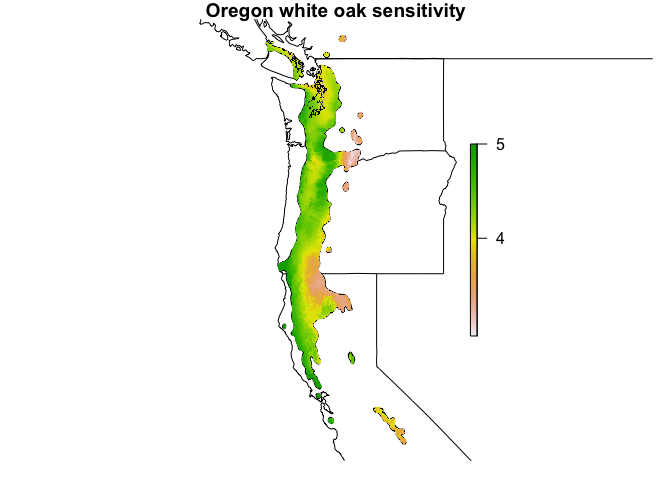
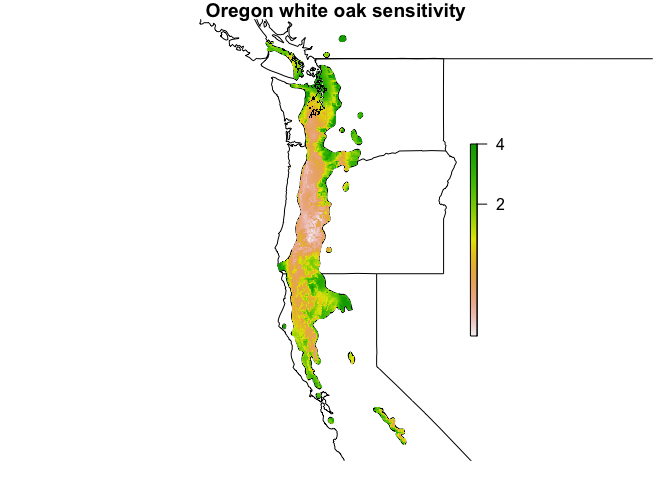
README update

diff --git a/README.md b/README.md
@@ -1,19 +1,30 @@
 
-[![Build Status](https://travis-ci.org/rinnan/CENFA.svg?branch=master)](https://travis-ci.org/rinnan/CENFA) [![CRAN](http://www.r-pkg.org/badges/version/CENFA)]()
+[![Build
+Status](https://travis-ci.org/rinnan/CENFA.svg?branch=master)](https://travis-ci.org/rinnan/CENFA)
+[![CRAN](http://www.r-pkg.org/badges/version/CENFA)]()
 
-CENFA: Climate and Ecological Niche Factor Analysis
-===================================================
+# CENFA: Climate and Ecological Niche Factor Analysis
 
-`CENFA` provides tools for performing ecological-niche factor analysis (ENFA) and climate-niche factor analysis (CNFA). This package was created with three goals in mind:
+`CENFA` provides tools for performing ecological-niche factor analysis
+(ENFA) and climate-niche factor analysis (CNFA). This package was
+created with three goals in mind:
 
--   To update the ENFA method for use with large datasets and modern data formats.
--   To correct a critical error in the ENFA method itself, that has managed to persist since Hirzel et al. first introduced ENFA in 2002.
--   To expand the application of ENFA in the context of climate change in order to quantify different aspects of species vulnerability to climate change, and to facilitate quantitative comparisons of vulnerability between species.
+  - To update the ENFA method for use with large datasets and modern
+    data formats.
+  - To correct a critical error in the ENFA method itself, that has
+    managed to persist since Hirzel et al. first introduced ENFA in
+    2002.
+  - To expand the application of ENFA in the context of climate change
+    in order to quantify different aspects of species vulnerability to
+    climate change, and to facilitate quantitative comparisons of
+    vulnerability between species.
 
-`CENFA` takes advantage of the `raster` and `sp` packages, allowing the user to conduct analyses directly with raster, shapefile, and point data, and to handle large datasets efficiently via partial data loading and parallelization.
+`CENFA` takes advantage of the `raster` and `sp` packages, allowing the
+user to conduct analyses directly with raster, shapefile, and point
+data, and to handle large datasets efficiently via partial data loading
+and parallelization.
 
-Installation
-------------
+## Installation
 
 You can install CENFA from GitHub with:
 
@@ -22,26 +33,32 @@ You can install CENFA from GitHub with:
 devtools::install_github("rinnan/CENFA")
 ```
 
-Examples
---------
+## Examples
 
 ### `enfa`
 
-We will use some example datasets to perform a basic ENFA. The historical climate dataset `climdat.hist` is a RasterBrick of 10 climate variables, covering much of the western US coast. `QUGA` is a SpatialPolygonsDataFrame of the historical range map of Oregon white oak (*Quercus garryana*).
+We will use some example datasets to perform a basic ENFA. The
+historical climate dataset `climdat.hist` is a RasterBrick of 10 climate
+variables, covering much of the western US coast. `QUGA` is a
+SpatialPolygonsDataFrame of the historical range map of Oregon white oak
+(*Quercus garryana*).
 
 A plot of the data, using the one of the layers of `climdat.hist`:
 
-![](man/figures/README-QUGA-plot-1.png)
+![](man/figures/README-QUGA-plot-1.png)<!-- -->
 
-The `enfa` function takes three basic arguments: the dataset of ecological variables (`climdat.hist`), the map of species presence (`QUGA`), and the values of `QUGA` that specify presence (in this case, a column named "CODE"). Calling the `enfa` object by name provides a standard summary of the ENFA results.
+The `enfa` function takes three basic arguments: the dataset of
+ecological variables (`climdat.hist`), the map of species presence
+(`QUGA`), and the values of `QUGA` that specify presence (in this case,
+a column named “CODE”). Calling the `enfa` object by name provides a
+standard summary of the ENFA results.
 
 ``` r
 mod.enfa <- enfa(x = climdat.hist, s.dat = QUGA, field = "CODE")
 mod.enfa
 #> ENFA
 #> 
-#> Original function call: enfa(x = x, s.dat = s.dat.ras, filename = filename, quiet = quiet, 
-#>     parallel = parallel, n = n, ...)
+#> Original function call: enfa(x = climdat.hist, s.dat = QUGA, field = "CODE")
 #> 
 #> Marginality factor: 
 #>   MDR   ISO    TS HMmax CMmin   PWM   PDM    PS   PWQ   PDQ 
@@ -57,34 +74,44 @@ mod.enfa
 #> 
 #> Overall marginality:  1.654 
 #> 
-#> Overall specialization:  0.543 
+#> Overall specialization:  1.718 
 #> 
 #> Significant ENFA factors: 
 #>        Marg Spec1 Spec2 Spec3
-#> PWQ    0.44  0.03 -0.19 -0.25
-#> PWM    0.43 -0.08  0.26  0.27
-#> PS     0.42  0.12 -0.11 -0.02
-#> TS    -0.41 -0.34 -0.54  0.39
-#> CMmin  0.40 -0.54  0.00  0.49
-#> ISO    0.31  0.11 -0.46 -0.05
-#> MDR   -0.08 -0.46  0.59  0.38
-#> PDM   -0.08  0.10  0.09  0.03
-#> PDQ    0.08  0.00 -0.11 -0.04
-#> HMmax -0.02  0.58 -0.07 -0.57
+#> PWQ    0.72  0.03 -0.19 -0.25
+#> PWM    0.71 -0.08  0.26  0.27
+#> PS     0.70  0.12 -0.11 -0.02
+#> TS    -0.67 -0.34 -0.54  0.39
+#> CMmin  0.67 -0.54  0.00  0.49
+#> ISO    0.51  0.11 -0.46 -0.05
+#> MDR   -0.13 -0.46  0.59  0.38
+#> PDM   -0.13  0.10  0.09  0.03
+#> PDQ    0.13  0.00 -0.11 -0.04
+#> HMmax -0.03  0.58 -0.07 -0.57
 ```
 
 ### `scatter`
 
-We can visualize the ENFA results via the `scatter` function, which produces a biplot of the marginality axis and one of the specialization axes. This gives us a portrait of the species' niche to compare with the global niche of the reference study area, with the ecological axes projected onto the ENFA dimensions. (Note: since `mod.enfa` only contains information about the species habitat, we must first construct a `GLcenfa` object that also describes the global habitat.)
+We can visualize the ENFA results via the `scatter` function, which
+produces a biplot of the marginality axis and one of the specialization
+axes. This gives us a portrait of the species’ niche to compare with the
+global niche of the reference study area, with the ecological axes
+projected onto the ENFA dimensions. (Note: since `mod.enfa` only
+contains information about the species habitat, we must first construct
+a `GLcenfa` object that also describes the global habitat.)
 
 ``` r
 glc <- GLcenfa(x = climdat.hist)
 scatter(x = mod.enfa, y = glc)
 ```
 
-![](man/figures/README-scatter-1.png)
+![](man/figures/README-scatter-1.png)<!-- -->
 
-For larger datasets, we can speed up the computation via parallelization. We provide two additional arguments, `parallel = TRUE`, and `n`, which specifies the number of cores to use. `n` has a default value of 1, so only setting `parallel = TRUE` will not parallelize the function by itself.
+For larger datasets, we can speed up the computation via
+parallelization. We provide two additional arguments, `parallel = TRUE`,
+and `n`, which specifies the number of cores to use. `n` has a default
+value of 1, so only setting `parallel = TRUE` will not parallelize the
+function by itself.
 
 ``` r
 # does not enable parallelization
@@ -94,19 +121,29 @@ mod <- enfa(x = climdat.hist, s.dat = QUGA, field = "CODE", parallel = TRUE)
 mod <- enfa(x = climdat.hist, s.dat = QUGA, field = "CODE", parallel = TRUE, n = 4)
 ```
 
-The function will attempt to match the value provided to `n` with the number of cores detected on the local device via `parallel::detectCores()`; if the provided `n` is greater than the number of available cores `k`, a warning will be issued and `n` will be set to `k - 1`.
+The function will attempt to match the value provided to `n` with the
+number of cores detected on the local device via
+`parallel::detectCores()`; if the provided `n` is greater than the
+number of available cores `k`, a warning will be issued and `n` will be
+set to `k - 1`.
 
 ### `cnfa`
 
-The `cnfa` function is very similar to `enfa`, but performs a slightly different analysis. Whereas ENFA returns a *specialization factor* (the eigenvalues of specialization) describing the amount of specialization found in each *ENFA factor*, CNFA returns a *sensitivity factor* that reflects the amount of sensitivity found in each *ecological variable*. This makes the sensitivity factor more directly comparable to the marginality factor, and more interpretable in the context of species' sensitivity to a given variable.
+The `cnfa` function is very similar to `enfa`, but performs a slightly
+different analysis. Whereas ENFA returns a *specialization factor* (the
+eigenvalues of specialization) describing the amount of specialization
+found in each *ENFA factor*, CNFA returns a *sensitivity factor* that
+reflects the amount of sensitivity found in each *ecological variable*.
+This makes the sensitivity factor more directly comparable to the
+marginality factor, and more interpretable in the context of species’
+sensitivity to a given variable.
 
 ``` r
 mod.cnfa <- cnfa(x = climdat.hist, s.dat = QUGA, field = "CODE")
 mod.cnfa
 #> CNFA
 #> 
-#> Original function call: cnfa(x = x, s.dat = s.dat.ras, filename = filename, quiet = quiet, 
-#>     parallel = parallel, n = n, ...)
+#> Original function call: cnfa(x = climdat.hist, s.dat = QUGA, field = "CODE")
 #> 
 #> Marginality factor: 
 #>   MDR   ISO    TS HMmax CMmin   PWM   PDM    PS   PWQ   PDQ 
@@ -114,7 +151,7 @@ mod.cnfa
 #> 
 #> Sensitivity factor: 
 #>   MDR   ISO    TS HMmax CMmin   PWM   PDM    PS   PWQ   PDQ 
-#>  3.33  2.68  3.20  3.00  3.13  2.85  1.83  2.08  2.67  1.50 
+#>  4.52  2.86  4.16  3.72  3.98  3.36  1.35  1.71  2.94  0.92 
 #> 
 #> Percentage of specialization contained in CNFA factors: 
 #>  Marg Spec1 Spec2 Spec3 Spec4 Spec5 Spec6 Spec7 Spec8 Spec9 
@@ -122,33 +159,39 @@ mod.cnfa
 #> 
 #> Overall marginality:  1.654 
 #> 
-#> Overall sensitivity:  2.691 
+#> Overall sensitivity:  1.718 
 #> 
 #> Significant CNFA factors: 
 #>        Marg Spec1 Spec2 Spec3
-#> PWQ    0.44  0.03 -0.19 -0.25
-#> PWM    0.43 -0.08  0.26  0.27
-#> PS     0.42  0.12 -0.11 -0.02
-#> TS    -0.41 -0.34 -0.54  0.39
-#> CMmin  0.40 -0.54  0.00  0.49
-#> ISO    0.31  0.11 -0.46 -0.05
-#> MDR   -0.08 -0.46  0.59  0.38
-#> PDM   -0.08  0.10  0.09  0.03
-#> PDQ    0.08  0.00 -0.11 -0.04
-#> HMmax -0.02  0.58 -0.07 -0.57
+#> PWQ    0.72  0.03 -0.19 -0.25
+#> PWM    0.71 -0.08  0.26  0.27
+#> PS     0.70  0.12 -0.11 -0.02
+#> TS    -0.67 -0.34 -0.54  0.39
+#> CMmin  0.67 -0.54  0.00  0.49
+#> ISO    0.51  0.11 -0.46 -0.05
+#> MDR   -0.13 -0.46  0.59  0.38
+#> PDM   -0.13  0.10  0.09  0.03
+#> PDQ    0.13  0.00 -0.11 -0.04
+#> HMmax -0.03  0.58 -0.07 -0.57
 ```
 
-Using the `sensitivity_map` function, we can create a habitat map that identifies where we expect the species to be most sensitivite to changes in climate.
+Using the `sensitivity_map` function, we can create a habitat map that
+identifies where we expect the species to be most sensitivite to changes
+in climate.
 
 ``` r
 s.map <- sensitivity_map(mod.cnfa)
 ```
 
-![](man/figures/README-sensitivity-map-1.png)
+![](man/figures/README-sensitivity-map-1.png)<!-- -->
 
 ### `departure`
 
-The `departure` function provides a measure of a species' potential exposure to climate change. It takes a future climate dataset as an additional argument, and calculates the absolute differences between historical and future values.
+The `departure` function provides a measure of a species’ potential
+exposure to climate change. It takes a future climate dataset as an
+additional argument, and calculates the absolute differences between
+historical and future
+values.
 
 ``` r
 dep <- departure(x = climdat.hist, y = climdat.fut, s.dat = QUGA, field = "CODE")
@@ -162,17 +205,23 @@ dep
 #> Overall departure: 0.909
 ```
 
-The departure factor tells us the average amount of change that is expected in each climate variable across the species' range. Using the `exposure_map` function, we can create a habitat map that identifies where we expect the species to be most exposed to climate change.
+The departure factor tells us the average amount of change that is
+expected in each climate variable across the species’ range. Using the
+`exposure_map` function, we can create a habitat map that identifies
+where we expect the species to be most exposed to climate change.
 
 ``` r
 e.map <- exposure_map(dep)
 ```
 
-![](man/figures/README-exposure-map-1.png)
+![](man/figures/README-exposure-map-1.png)<!-- -->
 
 ### `vulnerability`
 
-The `vulnerability` function provides a measure of a species' potential vulnerability to climate change, taking both sensitivity and exposure into account. It takes a `cnfa` object and a `departure` object as its arguments.
+The `vulnerability` function provides a measure of a species’ potential
+vulnerability to climate change, taking both sensitivity and exposure
+into account. It takes a `cnfa` object and a `departure` object as its
+arguments.
 
 ``` r
 vuln <- vulnerability(cnfa = mod.cnfa, dep = dep)
@@ -181,27 +230,36 @@ vuln
 #> 
 #> Vulnerability factor: 
 #>   MDR   ISO    TS HMmax CMmin   PWM   PDM    PS   PWQ   PDQ 
-#>  0.14  0.16  0.27  0.40  0.38  0.25  0.12  0.24  0.24  0.11 
+#>  2.18  1.78  2.25  2.38  2.40  2.03  1.23  1.54  1.90  1.03 
 #> 
-#> Overall vulnerability: 0.792
+#> Overall vulnerability: 1.368
 ```
 
-Using the `vulnerability_map` function, we can create a habitat map that identifies where we expect the species to be most vulnerable to climate change.
+Using the `vulnerability_map` function, we can create a habitat map that
+identifies where we expect the species to be most vulnerable to climate
+change.
 
 ``` r
 v.map <- vulnerability_map(vuln)
 ```
 
-![](man/figures/README-vulnerability-map-1.png)
+![](man/figures/README-vulnerability-map-1.png)<!-- -->
 
-Useful raster functions
------------------------
+## Useful raster functions
 
-The `raster` package contains the `clusterR` function, which enables parallelization methods for certain raster operations. `clusterR` only works on functions that operate on a cell-by-cell basis, however, which limits its usefulness. The `CENFA` package contains a few functions that speed up some basic `raster` functions considerably by parallelizing on a layer-by-layer basis rather than a cell-by-cell basis.
+The `raster` package contains the `clusterR` function, which enables
+parallelization methods for certain raster operations. `clusterR` only
+works on functions that operate on a cell-by-cell basis, however, which
+limits its usefulness. The `CENFA` package contains a few functions that
+speed up some basic `raster` functions considerably by parallelizing on
+a layer-by-layer basis rather than a cell-by-cell basis.
 
 ### `parScale`
 
-The `parScale` function is identical to `raster::scale`, but has a parallelization option that will scale each raster layer in parallel. The `center` and `scale` arguments can be logical (`TRUE` or `FALSE`) or numeric vectors.
+The `parScale` function is identical to `raster::scale`, but has a
+parallelization option that will scale each raster layer in parallel.
+The `center` and `scale` arguments can be logical (`TRUE` or `FALSE`) or
+numeric vectors.
 
 ``` r
 clim.scaled <- parScale(x = climdat.hist, parallel = TRUE, n = 4)
@@ -209,13 +267,19 @@ clim.scaled <- parScale(x = climdat.hist, parallel = TRUE, n = 4)
 
 ### `parCov`
 
-The `parCov` function returns the covariance matrix of a Raster\* object `x`, computing the covariance between each layer of `x`. This is similar to `raster::layerStats(x, stat = 'cov')`, but much faster when parallelization is employed.
+The `parCov` function returns the covariance matrix of a Raster\* object
+`x`, computing the covariance between each layer of `x`. This is similar
+to `raster::layerStats(x, stat = 'cov')`, but much faster when
+parallelization is employed.
 
 ``` r
 mat <- parCov(x = climdat.hist, parallel = TRUE, n = 4)
 ```
 
-Additionally, `parCov` can accept two Raster\* objects as arguments, similar to `stats::cov(x, y)`. If two Raster\* objects are supplied, then the covariance is calculated between the layers of `x` and the layers of `y`.
+Additionally, `parCov` can accept two Raster\* objects as arguments,
+similar to `stats::cov(x, y)`. If two Raster\* objects are supplied,
+then the covariance is calculated between the layers of `x` and the
+layers of `y`.
 
 ``` r
 mat <- parCov(x = climdat.hist, y = climdat.fut, parallel = TRUE, n = 4)
@@ -223,7 +287,9 @@ mat <- parCov(x = climdat.hist, y = climdat.fut, parallel = TRUE, n = 4)
 
 ### `stretchPlot`
 
-The `stretchPlot` function provides a simple way to adjust the contrast of plots of RasterLayers to emphasize difference in values. It can perform histogram equalization and standard deviation stretching.
+The `stretchPlot` function provides a simple way to adjust the contrast
+of plots of RasterLayers to emphasize difference in values. It can
+perform histogram equalization and standard deviation stretching.
 
 ``` r
 sm <- sensitivity_map(mod.cnfa)
@@ -233,16 +299,19 @@ stretchPlot(sm, type = "hist.equal", main = "Histogram equalization")
 stretchPlot(sm, type = "sd", n = 2, main = "Standard deviation (n = 2)")
 ```
 
-![](man/figures/README-stretchPlot-1.png)
+![](man/figures/README-stretchPlot-1.png)<!-- -->
 
-Guidelines for contributing
----------------------------
+## Guidelines for contributing
 
-I welcome contributions and suggestions for improving this package. Please do not hesitate to submit any issues you may encounter.
+I welcome contributions and suggestions for improving this package.
+Please do not hesitate to submit any issues you may encounter.
 
-References
-----------
+## References
 
-Basille, Mathieu, et al. Assessing habitat selection using multivariate statistics: Some refinements of the ecological-niche factor analysis. Ecological Modelling 211.1 (2008): 233-240.
+Basille, Mathieu, et al. Assessing habitat selection using multivariate
+statistics: Some refinements of the ecological-niche factor analysis.
+Ecological Modelling 211.1 (2008): 233-240.
 
-Hirzel, Alexandre H., et al. Ecological-niche factor analysis: how to compute habitat-suitability maps without absence data?. Ecology 83.7 (2002): 2027-2036.
+Hirzel, Alexandre H., et al. Ecological-niche factor analysis: how to
+compute habitat-suitability maps without absence data?. Ecology 83.7
+(2002): 2027-2036.
